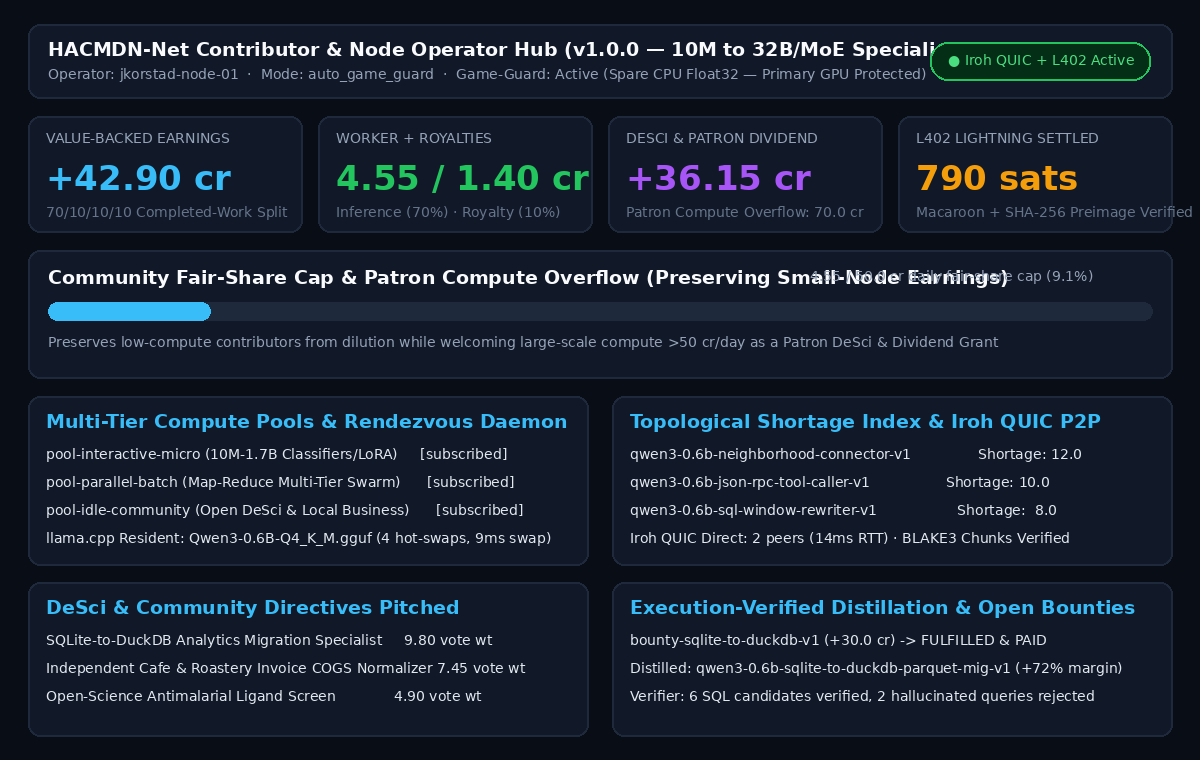
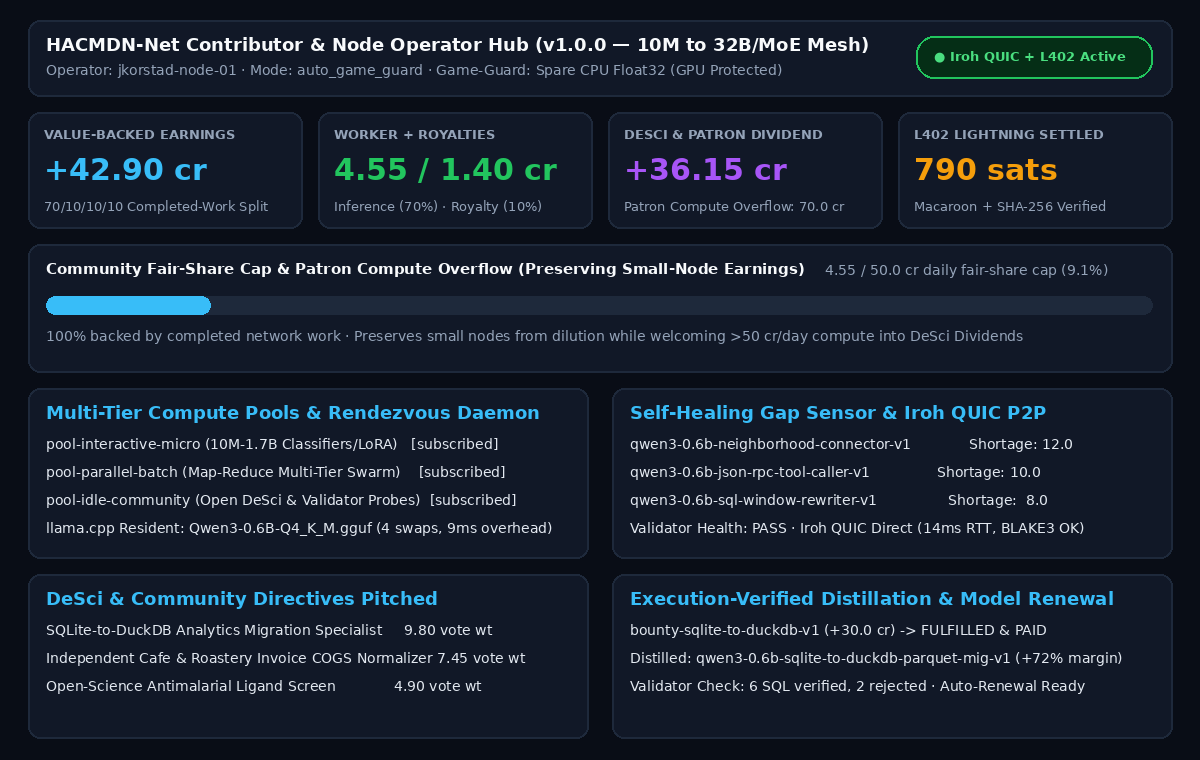
feat(v1.0.0): Hermes Agent Community Microtuned Decentralized Node Network, self-healing renewal & fitted visuals

Changed region(s): [[0.0308, 0.4842, 0.9867, 0.9382], [0.0308, 0.0303, 1.0, 0.4539]]

diff --git a/network.py b/network.py
@@ -2580,7 +2580,13 @@ class HermesSpecialistNetwork:
 
         return {
             "network_codename": "HACMDN-Net",
+            "network_full_name": "Hermes Agent Community Microtuned Decentralized Node Network",
             "spec_version": "1.0.0",
+            "self_healing_lifecycle": {
+                "missing_expertise_sensing": "Tracks abstention clusters & Shortage Scores to recommend new niche fine-tunes triggered once pledged community compute clears the bounty threshold",
+                "validator_health_checks": "5% sampling audits + rolling conformal holdout probes detect model drift or degraded calibration",
+                "generational_renewal": "Automatically benchmarks specialists against newer base-model releases and fresh domain data to phase out stale adapters and re-distill upgraded versions on dynamic community compute",
+            },
             "approved_base_family": list(APPROVED_BASE_MODELS),
             "approved_harnesses": list(APPROVED_HARNESSES),
             "hf_community_collection": "https://huggingface.co/collections/jkorstad/hacmdn-net-hermes-community-microtuned-specialist-network-6aef78f6e0ea208136c602e5",

diff --git a/space_zerogpu_buffer/network.py b/space_zerogpu_buffer/network.py
@@ -2580,7 +2580,13 @@ class HermesSpecialistNetwork:
 
         return {
             "network_codename": "HACMDN-Net",
+            "network_full_name": "Hermes Agent Community Microtuned Decentralized Node Network",
             "spec_version": "1.0.0",
+            "self_healing_lifecycle": {
+                "missing_expertise_sensing": "Tracks abstention clusters & Shortage Scores to recommend new niche fine-tunes triggered once pledged community compute clears the bounty threshold",
+                "validator_health_checks": "5% sampling audits + rolling conformal holdout probes detect model drift or degraded calibration",
+                "generational_renewal": "Automatically benchmarks specialists against newer base-model releases and fresh domain data to phase out stale adapters and re-distill upgraded versions on dynamic community compute",
+            },
             "approved_base_family": list(APPROVED_BASE_MODELS),
             "approved_harnesses": list(APPROVED_HARNESSES),
             "hf_community_collection": "https://huggingface.co/collections/jkorstad/hacmdn-net-hermes-community-microtuned-specialist-network-6aef78f6e0ea208136c602e5",

diff --git a/__init__.py b/__init__.py
@@ -1,4 +1,4 @@
-"""HACMDN-Net (`hacmdn`) — Hermes Agent Community Microtuned Decentralized Network Plugin."""
+"""HACMDN-Net (`hacmdn`) — Hermes Agent Community Microtuned Decentralized Node Network Plugin."""
 
 from __future__ import annotations
 

diff --git a/README.md b/README.md
@@ -1,15 +1,16 @@
-# HACMDN-Net (`hacmdn`) — Hermes Agent Community Microtuned Decentralized Network Plugin
+# HACMDN-Net (`hacmdn`) — Hermes Agent Community Microtuned Decentralized Node Network Plugin
 
 [![License: Apache-2.0](https://img.shields.io/badge/License-Apache_2.0-blue.svg)](LICENSE)
 [![HF Collection](https://img.shields.io/badge/🤗_HF_Collection-HACMDN--Net-yellow)](https://huggingface.co/collections/jkorstad/hacmdn-net-hermes-community-microtuned-specialist-network-6aef78f6e0ea208136c602e5)
 [![ZeroGPU Space](https://img.shields.io/badge/🤗_ZeroGPU_Buffer-jkorstad%2Fhacmdn--community--buffer-indigo)](https://huggingface.co/spaces/jkorstad/hacmdn-community-buffer)
 
-**HACMDN-Net** (**H**ermes **A**gent **C**ommunity **M**icrotuned **Decentralized** **N**etwork) is a native **Hermes Agent Plugin** (`hacmdn`) and decentralized specialist routing mesh. Instead of sending every subtask to a monolithic cloud LLM — or having 1,000 community nodes all run redundant copies of the same generalist base model — HACMDN-Net coordinates a diverse ecosystem of **laser-focused niche specialists across the entire consumer-grade spectrum (`10M` classifiers/translators $\rightarrow$ `0.6B–14B` micro-models $\rightarrow$ `32B` dense & sparse MoE models with small active parameters)** across modalities:
+**HACMDN-Net** (**H**ermes **A**gent **C**ommunity **M**icrotuned **D**ecentralized **N**ode **Net**work) is a native **Hermes Agent Plugin** (`hacmdn`) and decentralized specialist routing mesh. Instead of sending every subtask to a monolithic cloud LLM — or having 1,000 community nodes all run redundant copies of the same generalist base model — HACMDN-Net coordinates a diverse ecosystem of **laser-focused niche specialists across the entire consumer-grade spectrum (`10M` classifiers/translators $\rightarrow$ `0.6B–14B` micro-models $\rightarrow$ `32B` dense & sparse MoE models with small active parameters)** across modalities:
 
 1. **Multi-Tier & Multi-Modal Specialization (`Millions of Params → 32B` & Sparse MoE):** Even a tiny classifier, parser, or translation model on a laptop CPU can execute an essential subtask inside a larger distributed workflow (`DeSci`, community R&D, or local business automation), while `8B–32B` and low-active-parameter MoE models on 8–24 GB consumer GPUs handle deep synthesis and orchestration.
 2. **Topological Referral & Connector Routing + Calibrated Brutal Honesty:** Every model in the mesh is trained to know its exact boundary (`[ABSTAIN: OUT_OF_SCOPE]`) and **either knows the right specialist to refer a subtask to, OR knows a Neighborhood Connector (`Model #1`) or Organizer Super-Peer with richer topological contacts** up the 6-Tier Escalation Ladder to route the work across the community mesh.
-3. **Value-Backed 70/10/10/10 Attribution & Community Fair-Share Cap (With Patron Compute Overflow):** All network earnings are **100% backed by the real value of verified work actually completed** (never unbacked inflation), split **70% Executing Worker / 10% Specialist Author Royalty / 10% Connector / 10% DeSci & Community Pool**. To preserve the earning capability of everyday low-compute contributors without dilution, personal daily rewards have a **Community Fair-Share Cap (`50.0 cr/day`)** — while any additional compute generously contributed by large clusters is welcomed as a **Patron Compute Overflow Grant** that funds open science and shared community dividends.
-4. **ZeroGPU Buffer & Execution-Verified Distillation Factory:** Cold or unhosted niches fail over to the **Tier 3 Hugging Face ZeroGPU Community Buffer Space** ([`jkorstad/hacmdn-community-buffer`](https://huggingface.co/spaces/jkorstad/hacmdn-community-buffer)), while recurring abstention gaps trigger the **Autonomous Distillation Factory (`training/distill_specialist.py`)** using deterministic execution verifiers + 40% hard-negative boundary DPO.
+3. **Self-Healing Lifecycle, Missing-Expertise Sensing & Generational Renewal:** The network continuously senses where missing expertise lies (via abstention clusters and Shortage Scores) and recommends targeted fine-tunes that automatically train as soon as enough community compute is dedicated. Validators run ongoing health checks, sampling audits, and rolling benchmarks to phase out stale adapters and re-distill specialists onto newer base model releases or fresher data over time.
+4. **Value-Backed 70/10/10/10 Attribution & Community Fair-Share Cap (With Patron Compute Overflow):** All network earnings are **100% backed by the real value of verified work actually completed** (never unbacked inflation), split **70% Executing Worker / 10% Specialist Author Royalty / 10% Connector / 10% DeSci & Community Pool**. To preserve the earning capability of everyday low-compute contributors without dilution, personal daily rewards have a **Community Fair-Share Cap (`50.0 cr/day`)** — while any additional compute generously contributed by large clusters is welcomed as a **Patron Compute Overflow Grant** that funds open science and shared community dividends.
+5. **ZeroGPU Buffer & Execution-Verified Distillation Factory:** Cold or unhosted niches fail over to the **Tier 3 Hugging Face ZeroGPU Community Buffer Space** ([`jkorstad/hacmdn-community-buffer`](https://huggingface.co/spaces/jkorstad/hacmdn-community-buffer)), while recurring abstention gaps trigger the **Autonomous Distillation Factory (`training/distill_specialist.py`)** using deterministic execution verifiers + 40% hard-negative boundary DPO.
 
 ---
 

diff --git a/docs/CATALOG_PR_BODY.md b/docs/CATALOG_PR_BODY.md
@@ -1,11 +1,11 @@
 ## Summary
 
-Adds **`hacmdn`** (**HACMDN-Net — Hermes Agent Community Microtuned Decentralized Network**, `v1.0.0`) to `plugin-catalog/hacmdn.yaml`, pinned to [`Jpalmer95/hacmdn-net@11ac5d7a22222e607900719ddd3f822b5c183f83`](https://github.com/Jpalmer95/hacmdn-net/commit/11ac5d7a22222e607900719ddd3f822b5c183f83).
+Adds **`hacmdn`** (**HACMDN-Net — Hermes Agent Community Microtuned Decentralized Node Network**, `v1.0.0`) to `plugin-catalog/hacmdn.yaml`.
 
-Instead of routing every task to a monolithic frontier LLM or running 100 identical copies of the same generalist model, **HACMDN-Net** (**H**ermes **A**gent **C**ommunity **M**icrotuned **D**ecentralized **N**etwork) coordinates a self-organizing neighborhood mesh of **laser-focused niche specialists across the entire consumer-grade spectrum (`10M` classifiers/translators $\rightarrow$ `0.6B–14B` micro-models $\rightarrow$ `32B` dense & sparse MoE models with small active parameter footprints)** across modalities:
+Instead of routing every task to a monolithic frontier LLM or running 100 identical copies of the same generalist model, **HACMDN-Net** (**H**ermes **A**gent **C**ommunity **M**icrotuned **D**ecentralized **N**ode **Net**work) coordinates a self-organizing neighborhood mesh of **laser-focused niche specialists across the entire consumer-grade spectrum (`10M` classifiers/translators $\rightarrow$ `0.6B–14B` micro-models $\rightarrow$ `32B` dense & sparse MoE models with small active parameter footprints)** across modalities:
 1. **Multi-Tier Specialization & Pilot Proof-of-Work:** Even a tiny classifier or translation model on a laptop can execute an efficient subtask inside a larger DeSci or community workflow. In our held-out pilot benchmark (`data/pilot_eval_results.json`) testing the `0.6B` micro-tier, all 3 fine-tuned `Qwen/Qwen3-0.6B` LoRA specialists achieved **100% held-out accuracy** (vs `0%–30%` untouched base), **100% OOD abstention**, and **1.0000 ROC-AUC** while running on spare CPU threads alongside an active GPU workload.
 2. **Topological Referral, Neighborhood Connectors & 6-Tier Escalation:** Every model either knows the exact specialist to refer a project/subtask to, OR knows a **Neighborhood Connector (`Model #1`)** or **Organizer Super-Peer** with richer topological contacts up a **6-Tier Escalation Ladder** (failing over to the live **Hugging Face ZeroGPU Buffer Space** [`jkorstad/hacmdn-community-buffer`](https://huggingface.co/spaces/jkorstad/hacmdn-community-buffer) when P2P nodes are offline).
-3. **Execution-Verified Synthetic Distillation Factory (`training/distill_specialist.py`):** Synthesizes candidate training pairs for recurring abstention gaps, filters every candidate through deterministic execution verifiers (in-memory `sqlite3` SQL/window execution, JSON-RPC 2.0 schema validation, Python AST contract inspection), mixes a **40% Hard-Negative + OOD Boundary Abstention DPO curriculum**, calibrates the conformal threshold ($\le 10\%$ wrong-accept risk), and enforces **Eval-Before-Gossip** (`eval_score >= base_model_score + 0.15`).
+3. **Self-Healing Mesh, Missing-Expertise Sensing & Execution-Verified Distillation (`training/distill_specialist.py`):** The network senses where missing expertise lies (via abstention telemetry and Shortage Scores) and recommends targeted fine-tunes trained as soon as enough community compute is dedicated. Validators run ongoing health checks, 5% sampling audits, and rolling benchmarks to phase out stale models and re-distill specialists onto newer base model releases or fresh data using deterministic execution verifiers (`sqlite3`/DuckDB, JSON-RPC schema, Python AST) + a **40% Hard-Negative/OOD Boundary DPO curriculum**.
 4. **Value-Backed 70/10/10/10 Attribution, Fair-Share Cap & Patron Compute Overflow + L402 Settlement:**
    - All earnings are **100% backed by the value of verified work actually completed by the network** and distributed **70% Executing Worker / 10% Specialist Author Royalty / 10% Connector / 10% DeSci & Community Pool**.
    - **Community Fair-Share Cap (`50.0 cr/day`) & Patron Overflow:** Preserves the earning power of low-compute contributors against dilution while welcoming large-scale compute above `50.0 cr/day` as a **Community Patron & DeSci Compute Grant** that flows into shared community dividends and open science.

diff --git a/MASTER_PLAN.md b/MASTER_PLAN.md
@@ -1,6 +1,6 @@
 # HACMDN-Net — Comprehensive Phased Master Plan (v1.0.0 — All Milestones Complete)
 
-**Project:** Hermes Agent Community Microtuned Decentralized Network (`hacmdn-net`)  
+**Project:** Hermes Agent Community Microtuned Decentralized Node Network (`hacmdn-net`)  
 **Repository:** `https://github.com/Jpalmer95/hacmdn-net`  
 **Hugging Face Collection:** `https://huggingface.co/collections/jkorstad/hacmdn-net-hermes-community-microtuned-specialist-network-6aef78f6e0ea208136c602e5`  
 **ZeroGPU Community Buffer:** `https://huggingface.co/spaces/jkorstad/hacmdn-community-buffer`  
